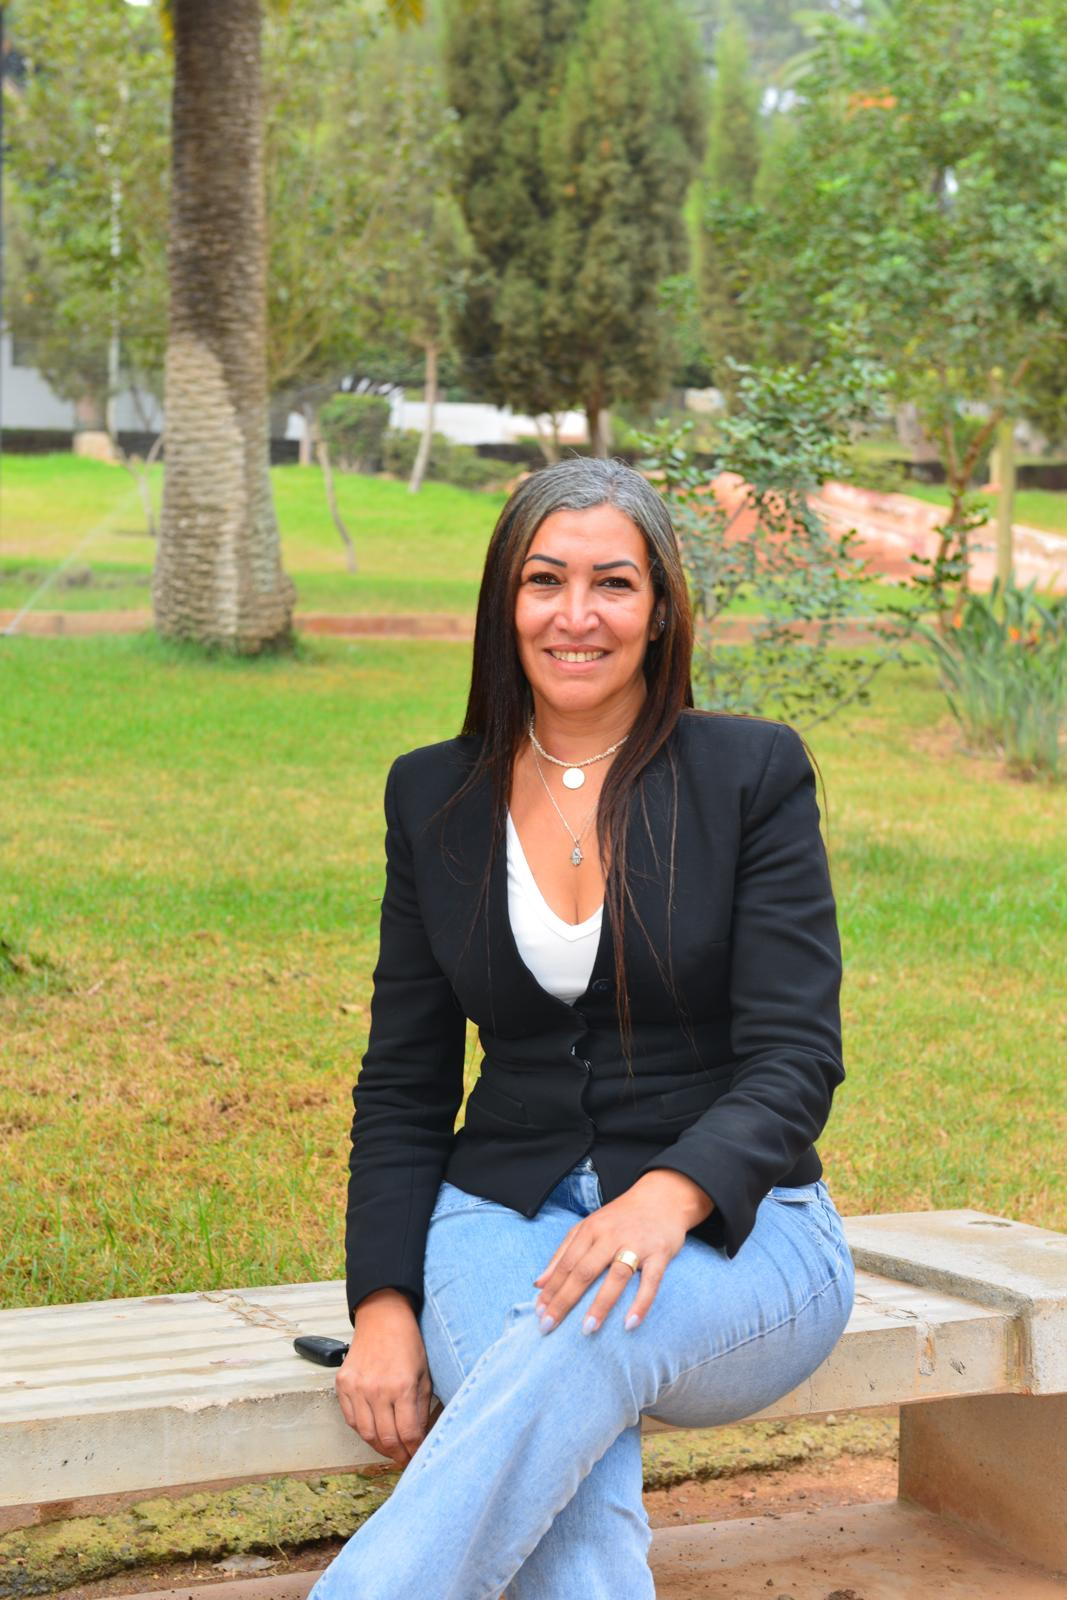
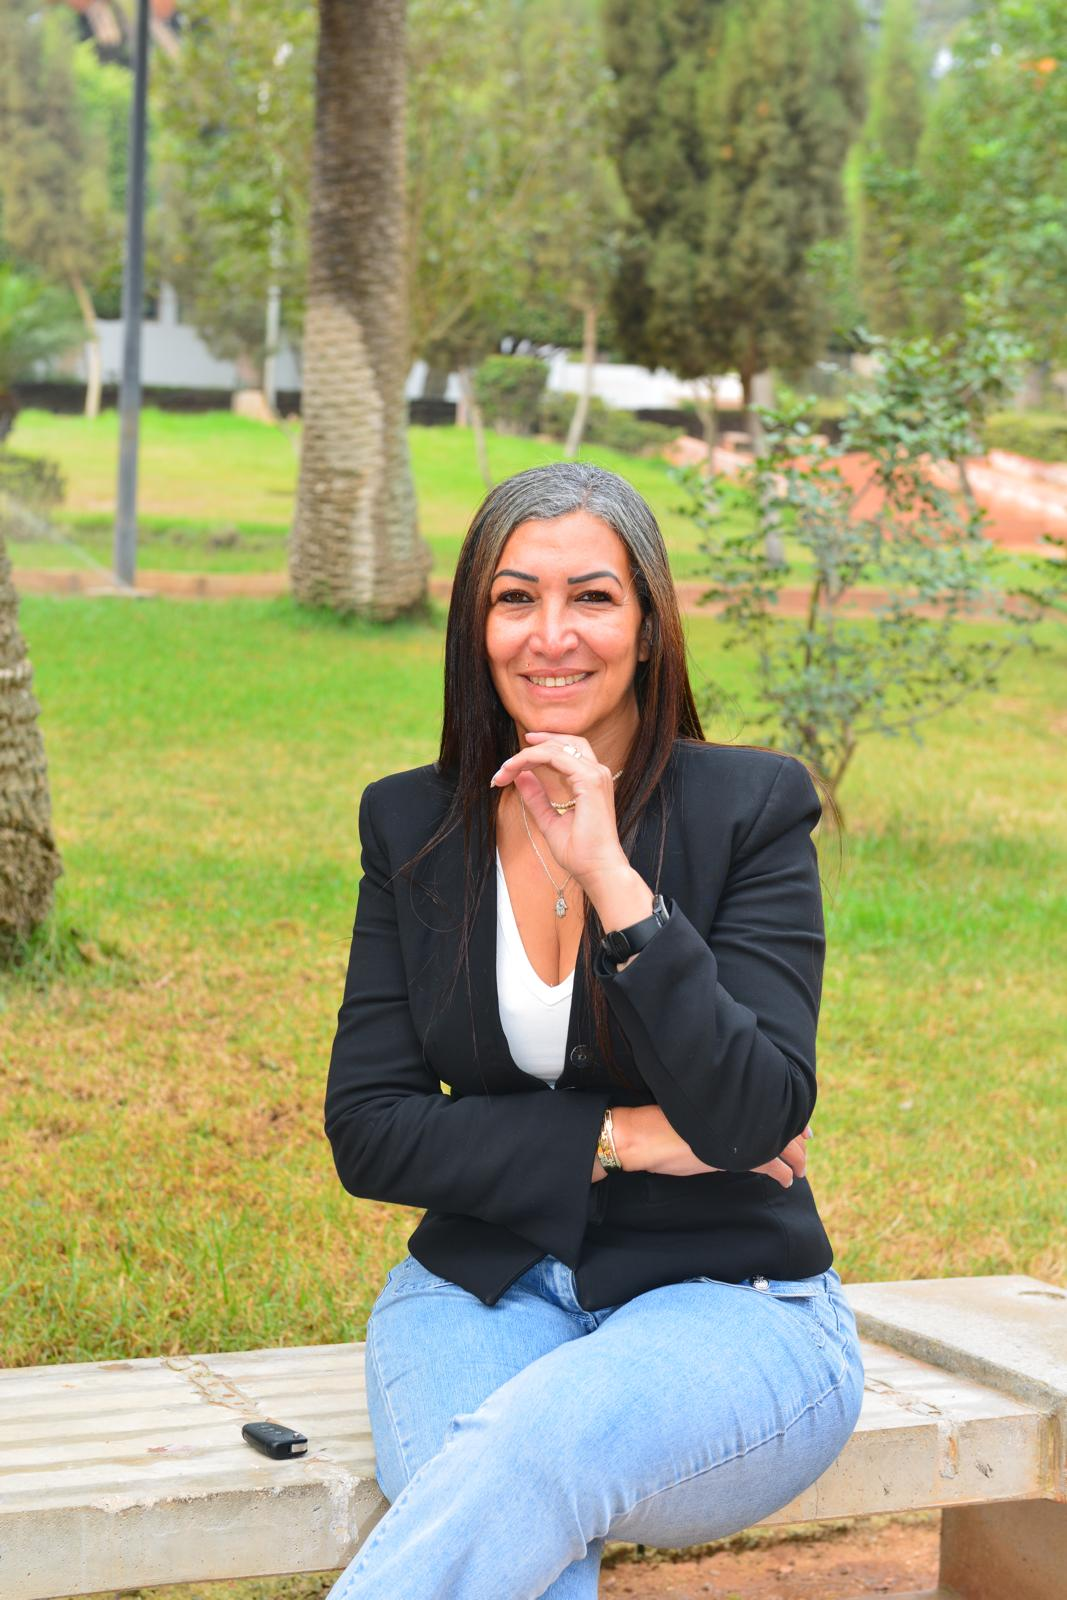
Accueil : nouveau portrait de Barka, lien Facebook dans « Votre interlocutrice », Zones d'intervention en chocolat plus compactes (villes en ligne séparées par le picto) ; 5 langues ; style.css ?v=45

diff --git a/public/es/index.html b/public/es/index.html
@@ -18,7 +18,7 @@
   <link rel="preconnect" href="https://fonts.googleapis.com">
   <link rel="preconnect" href="https://fonts.gstatic.com" crossorigin>
   <link href="https://fonts.googleapis.com/css2?family=Antonio:wght@300;400&family=Gloock&family=Instrument+Sans:wght@400;500;600&family=Pinyon+Script&display=swap" rel="stylesheet">
-  <link rel="stylesheet" href="../assets/css/style.css?v=44">
+  <link rel="stylesheet" href="../assets/css/style.css?v=45">
   <script>document.documentElement.classList.add('js')</script>
   <script src="../assets/js/main.js?v=36" defer></script>
 </head>
@@ -172,7 +172,7 @@
     </section>
 
     <section class="interlocutrice wrap" id="barka" aria-labelledby="titre-barka">
-      <figure class="interlocutrice-photo"><img src="../assets/img/barka/barka-portrait.jpg" alt="Barka, fundadora de Lyze Conciergerie" width="1067" height="1600" loading="lazy"></figure>
+      <figure class="interlocutrice-photo"><img src="../assets/img/barka/barka-portrait.jpg?v=2" alt="Barka, fundadora de Lyze Conciergerie" width="1067" height="1600" loading="lazy"></figure>
       <div class="interlocutrice-texte">
         <span class="eyebrow eyebrow--brique">Tu interlocutora</span>
         <blockquote>« Porque detrás de cada alojamiento hay un propietario, una historia y una confianza que hay que ganarse. »</blockquote>
@@ -182,6 +182,7 @@
         <p class="interlocutrice-reseaux">
           <a href="https://www.instagram.com/lyze.conciergerie/" target="_blank" rel="noopener"><svg class="ico" aria-hidden="true"><use href="#i-ig"/></svg>@lyze.conciergerie</a>
           <a href="https://www.tiktok.com/@lyze.conciergerie" target="_blank" rel="noopener"><svg class="ico" aria-hidden="true"><use href="#i-tt"/></svg>@lyze.conciergerie</a>
+          <a href="https://www.facebook.com/profile.php?id=61592746674916" target="_blank" rel="noopener"><svg class="ico" aria-hidden="true"><use href="#i-fb"/></svg>Lyze Conciergerie</a>
         </p>
       </div>
     </section>

diff --git a/public/it/index.html b/public/it/index.html
@@ -18,7 +18,7 @@
   <link rel="preconnect" href="https://fonts.googleapis.com">
   <link rel="preconnect" href="https://fonts.gstatic.com" crossorigin>
   <link href="https://fonts.googleapis.com/css2?family=Antonio:wght@300;400&family=Gloock&family=Instrument+Sans:wght@400;500;600&family=Pinyon+Script&display=swap" rel="stylesheet">
-  <link rel="stylesheet" href="../assets/css/style.css?v=44">
+  <link rel="stylesheet" href="../assets/css/style.css?v=45">
   <script>document.documentElement.classList.add('js')</script>
   <script src="../assets/js/main.js?v=36" defer></script>
 </head>
@@ -172,7 +172,7 @@
     </section>
 
     <section class="interlocutrice wrap" id="barka" aria-labelledby="titre-barka">
-      <figure class="interlocutrice-photo"><img src="../assets/img/barka/barka-portrait.jpg" alt="Barka, fondatrice di Lyze Conciergerie" width="1067" height="1600" loading="lazy"></figure>
+      <figure class="interlocutrice-photo"><img src="../assets/img/barka/barka-portrait.jpg?v=2" alt="Barka, fondatrice di Lyze Conciergerie" width="1067" height="1600" loading="lazy"></figure>
       <div class="interlocutrice-texte">
         <span class="eyebrow eyebrow--brique">La tua referente</span>
         <blockquote>« Perché dietro ogni alloggio ci sono un proprietario, una storia e una fiducia che va meritata. »</blockquote>
@@ -182,6 +182,7 @@
         <p class="interlocutrice-reseaux">
           <a href="https://www.instagram.com/lyze.conciergerie/" target="_blank" rel="noopener"><svg class="ico" aria-hidden="true"><use href="#i-ig"/></svg>@lyze.conciergerie</a>
           <a href="https://www.tiktok.com/@lyze.conciergerie" target="_blank" rel="noopener"><svg class="ico" aria-hidden="true"><use href="#i-tt"/></svg>@lyze.conciergerie</a>
+          <a href="https://www.facebook.com/profile.php?id=61592746674916" target="_blank" rel="noopener"><svg class="ico" aria-hidden="true"><use href="#i-fb"/></svg>Lyze Conciergerie</a>
         </p>
       </div>
     </section>

diff --git a/public/index.html b/public/index.html
@@ -18,7 +18,7 @@
   <link rel="preconnect" href="https://fonts.googleapis.com">
   <link rel="preconnect" href="https://fonts.gstatic.com" crossorigin>
   <link href="https://fonts.googleapis.com/css2?family=Antonio:wght@300;400&family=Gloock&family=Instrument+Sans:wght@400;500;600&family=Pinyon+Script&display=swap" rel="stylesheet">
-  <link rel="stylesheet" href="assets/css/style.css?v=44">
+  <link rel="stylesheet" href="assets/css/style.css?v=45">
   <script>document.documentElement.classList.add('js')</script>
   <script src="assets/js/main.js?v=36" defer></script>
 </head>
@@ -172,7 +172,7 @@
     </section>
 
     <section class="interlocutrice wrap" id="barka" aria-labelledby="titre-barka">
-      <figure class="interlocutrice-photo"><img src="assets/img/barka/barka-portrait.jpg" alt="Barka, fondatrice de Lyze Conciergerie" width="1067" height="1600" loading="lazy"></figure>
+      <figure class="interlocutrice-photo"><img src="assets/img/barka/barka-portrait.jpg?v=2" alt="Barka, fondatrice de Lyze Conciergerie" width="1067" height="1600" loading="lazy"></figure>
       <div class="interlocutrice-texte">
         <span class="eyebrow eyebrow--brique">Votre interlocutrice</span>
         <blockquote>« Car derrière chaque logement, il y a un propriétaire, une histoire et une confiance qui se mérite. »</blockquote>
@@ -182,6 +182,7 @@
         <p class="interlocutrice-reseaux">
           <a href="https://www.instagram.com/lyze.conciergerie/" target="_blank" rel="noopener"><svg class="ico" aria-hidden="true"><use href="#i-ig"/></svg>@lyze.conciergerie</a>
           <a href="https://www.tiktok.com/@lyze.conciergerie" target="_blank" rel="noopener"><svg class="ico" aria-hidden="true"><use href="#i-tt"/></svg>@lyze.conciergerie</a>
+          <a href="https://www.facebook.com/profile.php?id=61592746674916" target="_blank" rel="noopener"><svg class="ico" aria-hidden="true"><use href="#i-fb"/></svg>Lyze Conciergerie</a>
         </p>
       </div>
     </section>

diff --git a/public/en/index.html b/public/en/index.html
@@ -18,7 +18,7 @@
   <link rel="preconnect" href="https://fonts.googleapis.com">
   <link rel="preconnect" href="https://fonts.gstatic.com" crossorigin>
   <link href="https://fonts.googleapis.com/css2?family=Antonio:wght@300;400&family=Gloock&family=Instrument+Sans:wght@400;500;600&family=Pinyon+Script&display=swap" rel="stylesheet">
-  <link rel="stylesheet" href="../assets/css/style.css?v=44">
+  <link rel="stylesheet" href="../assets/css/style.css?v=45">
   <script>document.documentElement.classList.add('js')</script>
   <script src="../assets/js/main.js?v=36" defer></script>
 </head>
@@ -172,7 +172,7 @@
     </section>
 
     <section class="interlocutrice wrap" id="barka" aria-labelledby="titre-barka">
-      <figure class="interlocutrice-photo"><img src="../assets/img/barka/barka-portrait.jpg" alt="Barka, founder of Lyze Conciergerie" width="1067" height="1600" loading="lazy"></figure>
+      <figure class="interlocutrice-photo"><img src="../assets/img/barka/barka-portrait.jpg?v=2" alt="Barka, founder of Lyze Conciergerie" width="1067" height="1600" loading="lazy"></figure>
       <div class="interlocutrice-texte">
         <span class="eyebrow eyebrow--brique">Your contact</span>
         <blockquote>“Because behind every home, there is an owner, a story and a trust that must be earned.”</blockquote>
@@ -182,6 +182,7 @@
         <p class="interlocutrice-reseaux">
           <a href="https://www.instagram.com/lyze.conciergerie/" target="_blank" rel="noopener"><svg class="ico" aria-hidden="true"><use href="#i-ig"/></svg>@lyze.conciergerie</a>
           <a href="https://www.tiktok.com/@lyze.conciergerie" target="_blank" rel="noopener"><svg class="ico" aria-hidden="true"><use href="#i-tt"/></svg>@lyze.conciergerie</a>
+          <a href="https://www.facebook.com/profile.php?id=61592746674916" target="_blank" rel="noopener"><svg class="ico" aria-hidden="true"><use href="#i-fb"/></svg>Lyze Conciergerie</a>
         </p>
       </div>
     </section>

diff --git a/public/ar/index.html b/public/ar/index.html
@@ -18,7 +18,7 @@
   <link rel="preconnect" href="https://fonts.googleapis.com">
   <link rel="preconnect" href="https://fonts.gstatic.com" crossorigin>
   <link href="https://fonts.googleapis.com/css2?family=Amiri:wght@400;700&family=IBM+Plex+Sans+Arabic:wght@300;400;500;600&family=Pinyon+Script&display=swap" rel="stylesheet">
-  <link rel="stylesheet" href="../assets/css/style.css?v=44">
+  <link rel="stylesheet" href="../assets/css/style.css?v=45">
   <script>document.documentElement.classList.add('js')</script>
   <script src="../assets/js/main.js?v=36" defer></script>
 </head>
@@ -171,7 +171,7 @@
     </section>
 
     <section class="interlocutrice wrap" id="barka" aria-labelledby="titre-barka">
-      <figure class="interlocutrice-photo"><img src="../assets/img/barka/barka-portrait.jpg" alt="بركة، مؤسسة Lyze Conciergerie" width="1067" height="1600" loading="lazy"></figure>
+      <figure class="interlocutrice-photo"><img src="../assets/img/barka/barka-portrait.jpg?v=2" alt="بركة، مؤسسة Lyze Conciergerie" width="1067" height="1600" loading="lazy"></figure>
       <div class="interlocutrice-texte">
         <span class="eyebrow eyebrow--brique">محاورتك</span>
         <blockquote>«لأن وراء كل مسكن مالكًا وقصة وثقة تُكتسب.»</blockquote>
@@ -181,6 +181,7 @@
         <p class="interlocutrice-reseaux">
           <a href="https://www.instagram.com/lyze.conciergerie/" target="_blank" rel="noopener"><svg class="ico" aria-hidden="true"><use href="#i-ig"/></svg>@lyze.conciergerie</a>
           <a href="https://www.tiktok.com/@lyze.conciergerie" target="_blank" rel="noopener"><svg class="ico" aria-hidden="true"><use href="#i-tt"/></svg>@lyze.conciergerie</a>
+          <a href="https://www.facebook.com/profile.php?id=61592746674916" target="_blank" rel="noopener"><svg class="ico" aria-hidden="true"><use href="#i-fb"/></svg>Lyze Conciergerie</a>
         </p>
       </div>
     </section>

diff --git a/public/assets/css/style.css b/public/assets/css/style.css
@@ -1597,3 +1597,12 @@ html[lang="ar"] .histoire-signe span { letter-spacing: 0; font-size: 14px; }
 .histoire-debut .histoire-tete h1 { font-size: clamp(38px, 4.4vw, 68px); text-wrap: wrap; }
 .histoire-debut .histoire-tete h1 { max-width: 7.1em; }
 @media (max-width: 760px) { .histoire-debut { grid-template-columns: minmax(0, 1fr); } }
+
+/* ===== Zones d'intervention : chocolat, plus compact, villes en ligne séparées par le picto (retour cliente 2026-11-15) ===== */
+.zones { padding-block: clamp(36px, 4.5vw, 60px); }
+.zones h2 { font-size: clamp(26px, 2.6vw, 38px); color: var(--brique-texte, var(--brique)); }
+.zones-liste { display: flex; flex-wrap: wrap; justify-content: center; align-items: center; gap: 10px 22px; margin-top: clamp(18px, 2vw, 26px); }
+.zones-liste li { display: inline-flex; align-items: center; gap: 8px; padding: 0; }
+.zones-liste svg { width: 18px; height: 18px; margin: 0; color: var(--brique); }
+.zones-liste strong { font-size: clamp(17px, 1.4vw, 20px); color: var(--brique-texte, var(--brique)); }
+@media (max-width: 560px) { .zones-liste { gap: 8px 16px; } .zones-liste li { padding: 0; } .zones-liste strong { font-size: 16px; } }

diff --git a/pages-demo/espace.html b/pages-demo/espace.html
@@ -8,7 +8,7 @@
   <link rel="preconnect" href="https://fonts.googleapis.com">
   <link rel="preconnect" href="https://fonts.gstatic.com" crossorigin>
   <link href="https://fonts.googleapis.com/css2?family=Antonio:wght@300;400&family=Gloock&family=Instrument+Sans:wght@400;500;600&family=Pinyon+Script&display=swap" rel="stylesheet">
-  <link rel="stylesheet" href="assets/css/style.css?v=44">
+  <link rel="stylesheet" href="assets/css/style.css?v=45">
   <link rel="stylesheet" href="assets/css/espace.css?v=27">
   <script src="assets/js/espace.js?v=22" defer></script>
   <script src="assets/js/main.js?v=36" defer></script>

diff --git a/public/en/bien.html b/public/en/bien.html
@@ -12,7 +12,7 @@
   <link rel="preconnect" href="https://fonts.googleapis.com">
   <link rel="preconnect" href="https://fonts.gstatic.com" crossorigin>
   <link href="https://fonts.googleapis.com/css2?family=Antonio:wght@300;400&family=Gloock&family=Instrument+Sans:wght@400;500;600&family=Pinyon+Script&display=swap" rel="stylesheet">
-  <link rel="stylesheet" href="../assets/css/style.css?v=44">
+  <link rel="stylesheet" href="../assets/css/style.css?v=45">
   <script>document.documentElement.classList.add('js')</script>
   <script src="../assets/js/main.js?v=36" defer></script>
 </head>

diff --git a/public/en/faq.html b/public/en/faq.html
@@ -12,7 +12,7 @@
   <link rel="preconnect" href="https://fonts.googleapis.com">
   <link rel="preconnect" href="https://fonts.gstatic.com" crossorigin>
   <link href="https://fonts.googleapis.com/css2?family=Antonio:wght@300;400&family=Gloock&family=Instrument+Sans:wght@400;500;600&family=Pinyon+Script&display=swap" rel="stylesheet">
-  <link rel="stylesheet" href="../assets/css/style.css?v=44">
+  <link rel="stylesheet" href="../assets/css/style.css?v=45">
   <script>document.documentElement.classList.add('js')</script>
   <script src="../assets/js/main.js?v=36" defer></script>
 </head>

diff --git a/public/en/histoire.html b/public/en/histoire.html
@@ -12,7 +12,7 @@
   <link rel="preconnect" href="https://fonts.googleapis.com">
   <link rel="preconnect" href="https://fonts.gstatic.com" crossorigin>
   <link href="https://fonts.googleapis.com/css2?family=Antonio:wght@300;400&family=Gloock&family=Instrument+Sans:wght@400;500;600&family=Pinyon+Script&display=swap" rel="stylesheet">
-  <link rel="stylesheet" href="../assets/css/style.css?v=44">
+  <link rel="stylesheet" href="../assets/css/style.css?v=45">
   <script>document.documentElement.classList.add('js')</script>
   <script src="../assets/js/main.js?v=36" defer></script>
 </head>

diff --git a/public/en/mentions.html b/public/en/mentions.html
@@ -12,7 +12,7 @@
   <link rel="preconnect" href="https://fonts.googleapis.com">
   <link rel="preconnect" href="https://fonts.gstatic.com" crossorigin>
   <link href="https://fonts.googleapis.com/css2?family=Antonio:wght@300;400&family=Gloock&family=Instrument+Sans:wght@400;500;600&family=Pinyon+Script&display=swap" rel="stylesheet">
-  <link rel="stylesheet" href="../assets/css/style.css?v=44">
+  <link rel="stylesheet" href="../assets/css/style.css?v=45">
   <script>document.documentElement.classList.add('js')</script>
   <script src="../assets/js/main.js?v=36" defer></script>
 </head>

diff --git a/public/es/bien.html b/public/es/bien.html
@@ -12,7 +12,7 @@
   <link rel="preconnect" href="https://fonts.googleapis.com">
   <link rel="preconnect" href="https://fonts.gstatic.com" crossorigin>
   <link href="https://fonts.googleapis.com/css2?family=Antonio:wght@300;400&family=Gloock&family=Instrument+Sans:wght@400;500;600&family=Pinyon+Script&display=swap" rel="stylesheet">
-  <link rel="stylesheet" href="../assets/css/style.css?v=44">
+  <link rel="stylesheet" href="../assets/css/style.css?v=45">
   <script>document.documentElement.classList.add('js')</script>
   <script src="../assets/js/main.js?v=36" defer></script>
 </head>
